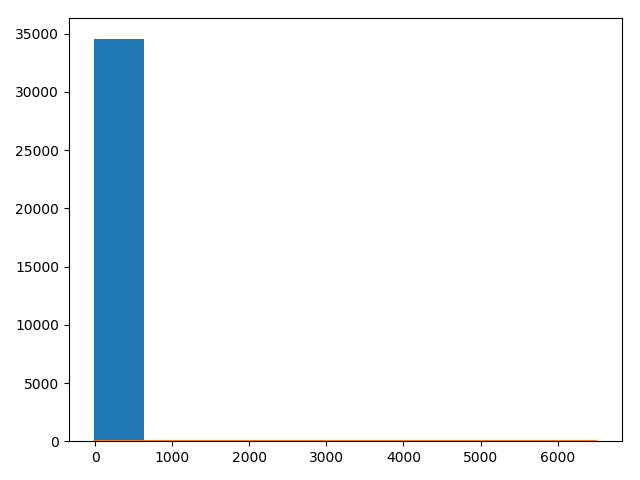
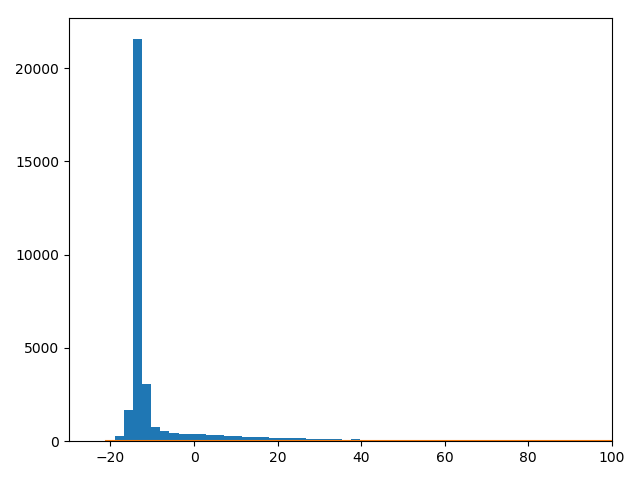
Day5 Lunch: Residuals Script and Figure

diff --git a/day5-lunch/day5-exercise5.py b/day5-lunch/day5-exercise5.py
@@ -37,12 +37,13 @@ mu = np.mean(results.resid)
 sigma = np.std(results.resid)
 
 fig, ax = plt.subplots()
-n, bins, patches = ax.hist(x = results.resid)
+n, bins, patches = ax.hist(x = results.resid, bins = 3000)
 y = scipy.stats.norm.pdf(bins, mu, sigma)
 ax.plot(bins, y)
 ax.set_ylabel = "Frequency"
 ax.set_xlabel = "Value"
 ax.set_title = "Histogram of Residuals"
+ax.set_xlim(-30,100)
 fig.tight_layout()
 fig.savefig("day5-exercise5_residuals.png")
 plt.close(fig)
